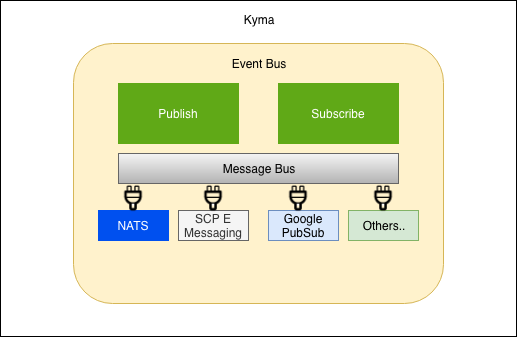
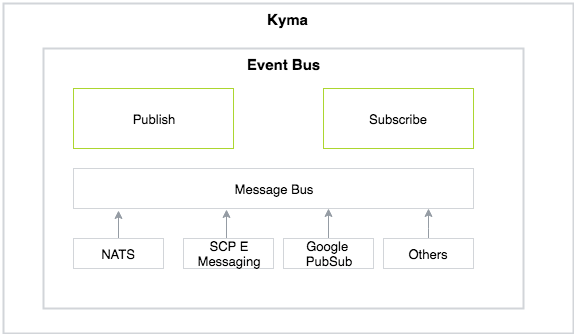
Apply feedback
- Apply feedback from TW for the content
- Remove the implementation details based on feedback from PB

diff --git a/capabilities/eventing.md b/capabilities/eventing.md
@@ -7,126 +7,89 @@ epicsLabels:
 
 ## Scope
 
-* Enable asynchronous processing
+* Enable asynchronous processing.
 * Integrate external solutions with Kyma using an event-driven architecture.
-* Enable loose coupling of applications deployed on Kyma.
+* Enable loose coupling of applications deployed using Kyma.
 
 
 ## Vision
 
 ### Pluggability
-* Enable customers to use a underlying messaging implementation that best fit their requirements.
+* Enable customers to use a messaging middleware that fits their requirements best.
+* Enable customers to run multiple messaging implementations in parallel.
 
-![](assets/pluggable.png)
-
-**Value Addition**
-* Decouple workload from the management plane
+_Value added_
+* Decouple the workload from the management plane.
 * Flexiblity
-  * Enable customers to choose the solution when it comes to volume, latency, scalability needs
-  * Allows a customer to use the solution already existing in her ecosystem.
+  * Allow the customers to choose the solution when it comes to volume, latency, scalability needs.
+  * Allows the customers to use the solution already existing in her ecosystem.
 
 ### System metrics
+* Provide observability for the event-bus to enable smooth operations and proactive actions.
+* This includes _Health metrics_ and _Performance metrics_.
 
-**Health metrics**
-
-* Availability of event bus components
-* Connectivity to the messaging solution
-* Active / Inactive subscriptions
-
-**Performance metrics**
-
-* Request Latency
-* Request Rate
-* Failure Rate
-* Delivery failure rate
-* Throughput
-* End-to-end latency
-
-**Value Addition**
+_Value added_
 * Improved operations.
 
 ### Benchmarking
-* Implement a mechanism to benchmark eventing
-* Factors such as number of event types, fan-out, payload size configurable
+* Provide tooling to enable customers to benchmark event-bus for their volume, fanout needs.
 
-**Value Addition**
-* Transparency
-* Increased trust in the solution
+_Value added_
+* Transparency.
+* Increased trust in the solution.
+* Enable operators to take corrective actions such as scaling some subcomponents.
 
-### Event Trigger for Services
-* Provide a user interface for creating event triggers for sevices deployed in Kyma.
+### Event trigger for services
+* Provide a user interface for creating Event triggers for sevices deployed using Kyma.
 
-**Value Addition**
+_Value added_
 * Improved developer experience.
 
-### Event Filtering
-* Filter out events for which there are no subscribers
-* Filter out close to the source
+### Event filtering
+* Allow only those events that will trigger some business workflows. (Only use what you need).
 
-**Value Addition**
-* Cost reduction
-* Reduce unnecessary network overhead
+_Value added_
+* Reduce costs.
+* Reduce unnecessary network overhead.
 
-### Model for internal events
+### Model for internal Events
+* You can generate Events inside a Kyma cluster and use them to trigger business workflows. 
 
-* As a developer, I should be able to define and generate internal events to trigger business workflows.
-
-**Value Addition**
-
-* Enable asynchronous processing and workflows for:
-  * Exposed APIs
-  * Scheduled activities
-
-**Dependencies**
-
-It is possible to generate events inside a Kyma cluster and use them to trigger business workflows. 
-
-The eventing in Kyma is tightly coupled with the aspect of events being sent by an external solution. e.g. `source-id` which identifies the external solution is used as a part of publishing an event in Kyma.
-
-For events generated inside Kyma, the following open questions or desing details needs to be answered:
-
-* How the orign of the internal event is identified? (events originated from the Kyma environments)
-* How the event schema will be published?
-* How the event schema will be made available to the developers?
-* Do we need concepts such as event activation for internal events?
+_Value added_
+* Enable asynchronous processing and workflows for exposed APIs and scheduled activities.
 
 ### Batching
-* Enable support to send multiple events in a single request.
+* Support sending multiple Events in a single request.
 
-**Value Addition**
+_Value added_
 * Performance optimization.
 
 ### Retry back-off
-* Enable the subscriber to configure the back-off that should be applied when retrying delivery of events.
-* The backoff strategies could evolve from a constant pause to a exponential backoff.
+* Enable the subscriber to configure the backoff to be applied when retrying the delivery of Events.
 
-**Value Addition**
+_Value added_
 * Efficient resource usage.
 * Improved stability.
 
 ### Dead letter
-* Support semantics where a message is moved to dead letter queue after failure to being processed by a lambda or a service.
-* The decision parameters to move an event to a dead letter are configurable. e.g. After x number of event delivery attempts.
+* Support semantics allowing to move the message to a dead letter queue if it was not processed by a lambda or a service.
 
-**Value Addition**
-* Ensure business processing recovery in case of mismatches.
-* Unblock delivery of events in case of processing errors. 
+_Value added_
+* Ensure business processes recovery in case of mismatches.
+* Unblock delivery of Events in case of processing errors.
 
 ### Configurable durability
-* The event producer should have possiblity to decide about the durability while sending an event to Kyma.
-* When sending an event to Kyma event-bus, a developer can specify the durability level.
+* The Event producer can decide about the durability while sending an Event to Kyma.
 
-**Value Addition**
+_Value added_
 * Improved flexibility.
-* Enable customers to choose performance vs durability based on the business requirements.
+* Customers can choose either performance or durability based on business requirements.
 
-### Event attributes + Selective filtering
+### Event attributes and selective filtering
 
-* It should be possible to assign attributes to a event published to Kyma event-bus.
-* Event attributes are `key:value` pairs of metatdata that the event publisher can set while publishing the events.
+* Possibility of assigning attributes to an Event published to Kyma Event Bus.
 
-**Value Addition**
-
-* Increased flexbility for event consumption.
+_Value added_
+* Increased flexibility of Event consumption.
 * Enable intelligent filtering.
 * Enable efficient resource usage.
